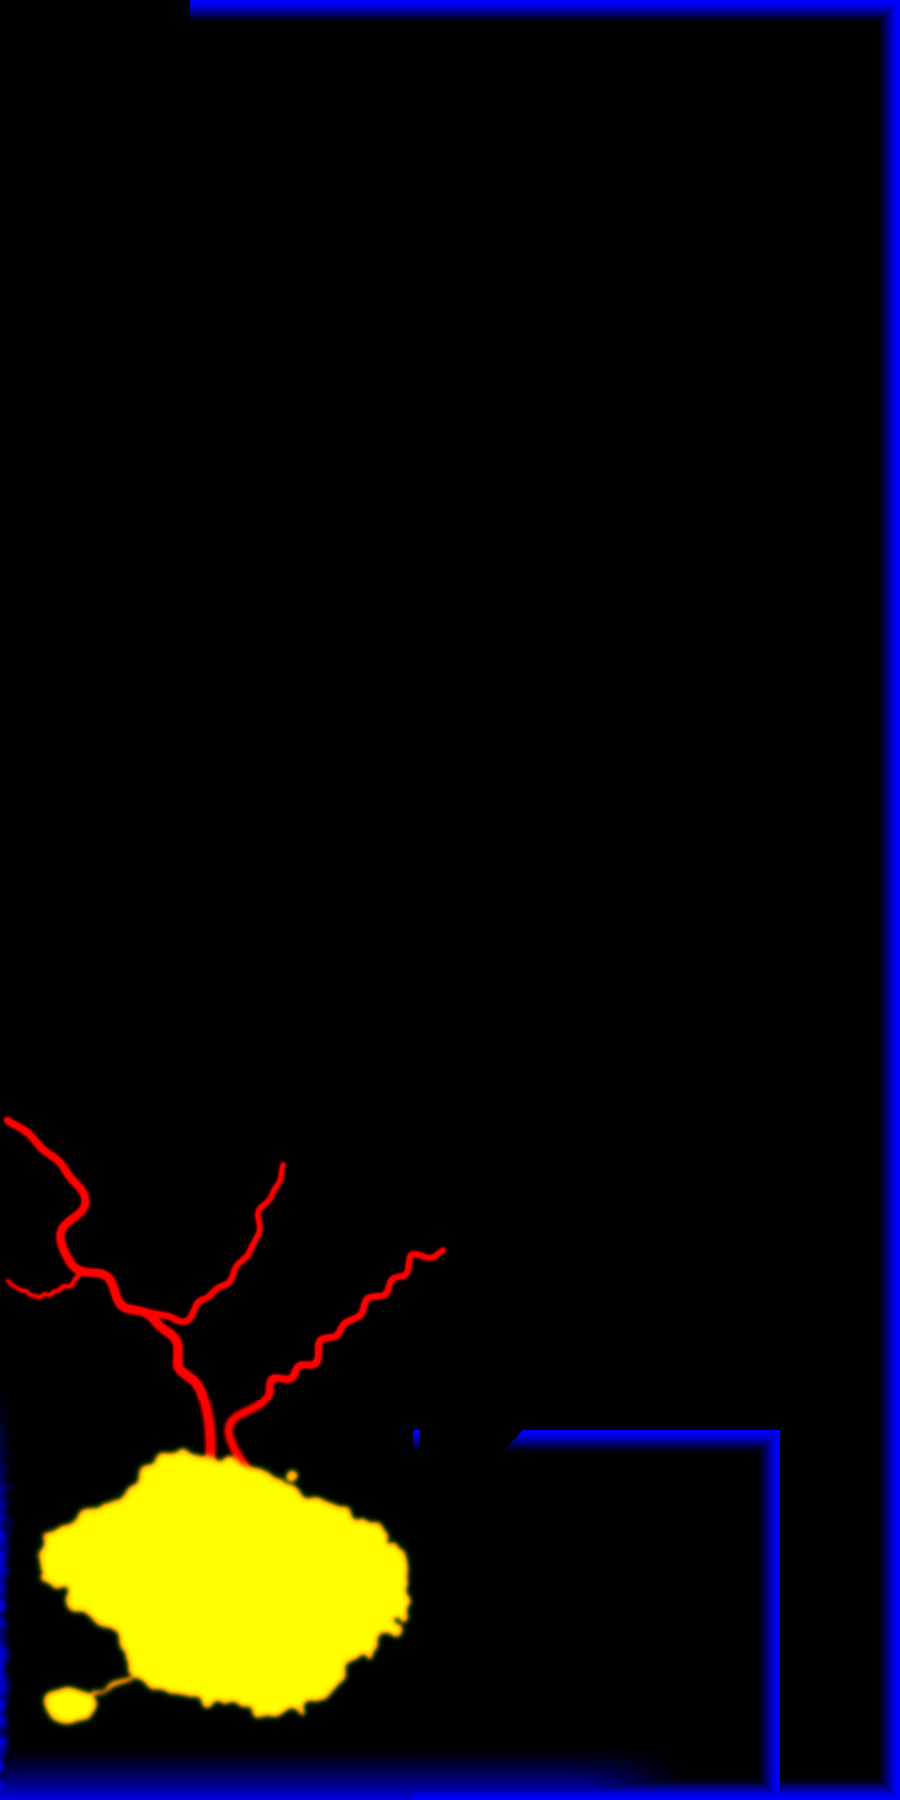
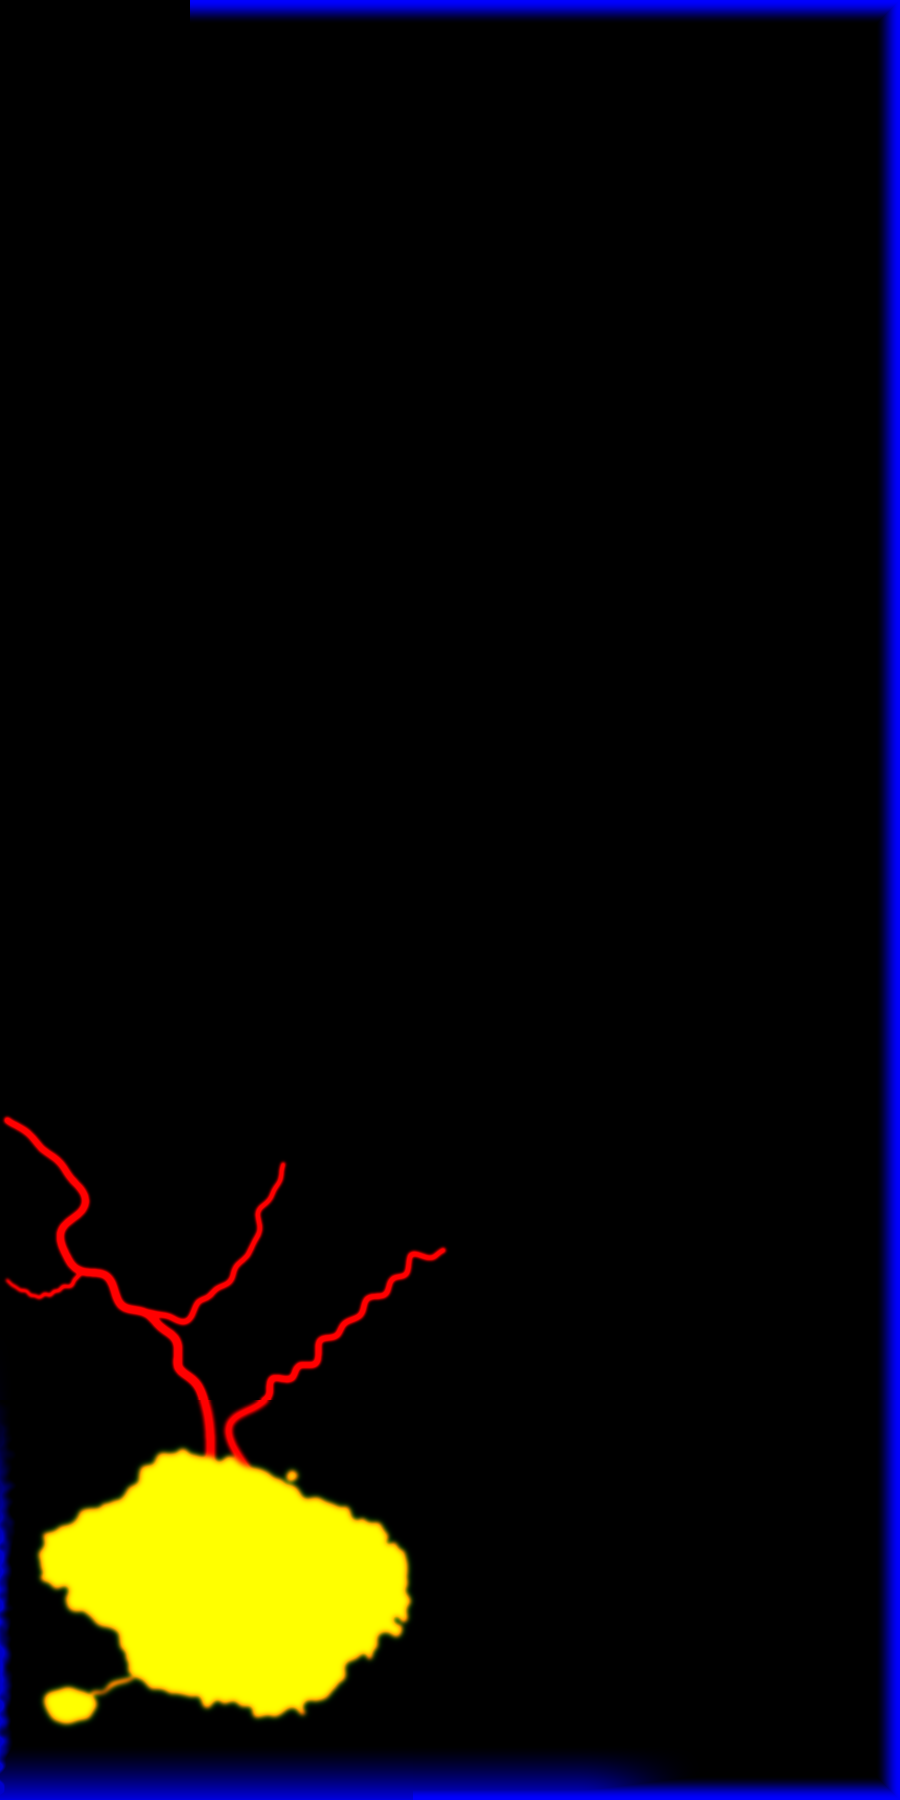
Ostwald: Nebelrand am Ufer weg, Glühwürmchen-Licht im Wald additiv, Nebel im tiefen Wald gedämpft, Lichtstrahl mittig auf dem Altar

Changed region(s): [[0.56, 0.7778, 0.8711, 0.9956]]

diff --git a/tools/world/gen_east.py b/tools/world/gen_east.py
@@ -780,7 +780,7 @@ def write(r):
     mist[hy0:hy1, hx0:hx1, :2][ownh] = 0
     uy, ux = np.mgrid[UY0 // 2:UY1 // 2, UX0 // 2:UX1 // 2]       # the shore's own mist: the south's bottom fade, retreating with the reed sea
     prof = np.clip((uy * 2 - Z4Y - 690) / 110.0, 0, 1) ** 1.4 * 0.88 * (1.0 - smooth((ux * 2 - 1150) / 260.0))
-    ed = 1 - smooth(np.minimum(np.minimum(uy - UY0 // 2, UX1 // 2 - 1 - ux), UY1 // 2 - 1 - uy) / 24.0)
+    ed = 1 - smooth((UY1 // 2 - 1 - uy) / 24.0)                   # only the world's bottom edge closes in mist; the other sides are no frame
     mist[UY0 // 2:UY1 // 2, UX0 // 2:UX1 // 2, 2] = np.round(np.maximum(ed, prof) * 255).astype(np.uint8)
     tg = np.zeros((H, WW), bool)
     tg[ZS.Y0:ZS.Y1, ZS.X0:ZS.X1] = ndi.binary_dilation(r['tongue'], iterations=6)

diff --git a/tools/world/east/grade_field.py b/tools/world/east/grade_field.py
@@ -33,7 +33,7 @@ def build():
     clr = np.zeros((H, W), bool)
     clr[L.Y0:L.Y1, L.X0:L.X1] = L.masks().clearing
     g = ndi.gaussian_filter(clr[::2, ::2].astype(float), 4) * 0.7 * r      # moonlight lies in the clearings
-    cx, cy = s5.X0 + s5.CX - 18, s5.Y0 + s5.CY - 14                     # the shaft falls a little off the altar's centre
+    cx, cy = s5.X0 + s5.CX, s5.Y0 + s5.CY - 6                           # the shaft falls on the altar slab's top, right over its centre
     top = cy - 150
     t = np.clip((cy - 8 - gy) / (cy - 8 - top), 0, 1)
     half = 11 + 9 * t
